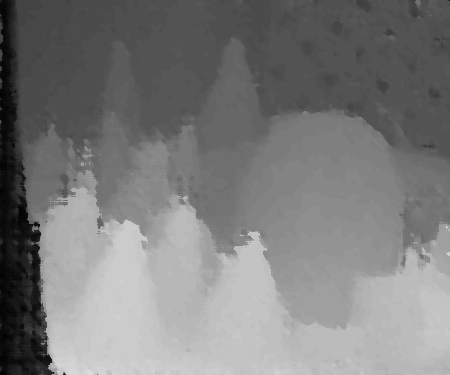
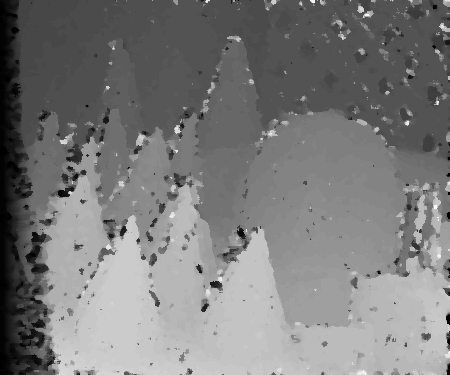
bug fix

diff --git a/model.py b/model.py
@@ -5,6 +5,10 @@ import time
 from multiprocessing import Pool
 from share_array import *
 
+import torch
+import torch.nn.functional as F
+from  utils import filter2D, get_gaussian_kernel, get_time
+
 class Param:
     def __init__(self):
         self.cost_mode = "sad"
@@ -64,21 +68,25 @@ class Paths:
         self.size = len(self.paths)
 
 class Model:
-    def __init__(self, param, data_config):
+    def __init__(self, param, data_config, device):
         self.param = param
         self.data_config = data_config
 
         left_fn = data_config['left_fn']
         right_fn = data_config['right_fn']
 
-        self.left = cv2.imread(left_fn, 0)
-        self.right = cv2.imread(right_fn, 0)
+        self.left = torch.from_numpy(cv2.imread(left_fn, 0)).float()
+        print("load left img: ", left_fn)
+        self.right = torch.from_numpy(cv2.imread(right_fn, 0)).float()
+        print("load right img: ", right_fn)
 
         self.H, self.W = self.left.shape
         H, W = self.right.shape
         assert(self.H == H and self.W == W)
 
         self.paths = Paths(param)
+
+        self.device = device
 
     def find_center(self, img, y, x):
         pool = []
@@ -92,22 +100,42 @@ class Model:
         return center
 
     def encode_img(self, img):
-        img = cv2.GaussianBlur(img, (self.param.blur_k_size, self.param.blur_k_size), 0)
+        # img = cv2.GaussianBlur(img.numpy(), (self.param.blur_k_size, self.param.blur_k_size), 0)
+        # if self.param.cost_mode == "census" and (self.param.cost_k_size > 1):
+        #     # res = torch.zeros_like(img)
+        #     res = np.zeros_like(img)
+        #     rad = self.param.cost_k_size // 2
+        #     for y in range(rad, self.H - rad):
+        #         for x in range(rad, self.W - rad):
+        #             # center = img[y, x]
+        #             center = self.find_center(img, y, x)
+        #             val = 0
+        #             for yy in range(-rad, rad+1):
+        #                 for xx in range(-rad, rad+1):
+        #                     if (img[y+yy, x+xx] < center):
+        #                         val += 1
+        #                     val = (val << 1)
+        #             res[y, x] = val
+        #     img = res
+        # else:
+        #     assert(self.param.cost_mode == "sad")
+
+        kernel = get_gaussian_kernel(self.param.blur_k_size, channels=1).to(self.device)
+        img = img.to(self.device)
+        img = filter2D(img, kernel)
 
         if self.param.cost_mode == "census" and (self.param.cost_k_size > 1):
-            res = np.zeros_like(img)
+            res = torch.zeros_like(img).to(torch.int64)
+
             rad = self.param.cost_k_size // 2
-            for y in range(rad, self.H - rad):
-                for x in range(rad, self.W - rad):
-                    # center = img[y, x]
-                    center = self.find_center(img, y, x)
-                    val = 0
-                    for yy in range(-rad, rad+1):
-                        for xx in range(-rad, rad+1):
-                            if (img[y+yy, x+xx] < center):
-                                val += 1
-                            val <= 1 
-                    res[y, x] = val
+            h, w = res.shape
+            offsets = [(u, v) for u in range(self.param.cost_k_size) for v in range(self.param.cost_k_size) if not u==v==rad]
+
+            img_pad = F.pad(img, pad = (rad, rad, rad, rad), mode="constant", value=0)
+
+            for u, v in offsets:
+                res = (res << 1) | (img_pad[u:u+h, v:v+w] < img)
+            
             img = res
         else:
             assert(self.param.cost_mode == "sad")
@@ -115,24 +143,26 @@ class Model:
         return img
 
     def compute_cost(self, left, right):
+        # left = torch.from_numpy(left)
+        # right = torch.from_numpy(right)
+
         disp_range = self.param.max_disparity - self.param.min_disparity
-        costs = np.zeros([self.H, self.W, disp_range])
+        costs = torch.zeros([self.H, self.W, disp_range])
         rad =  self.param.cost_k_size // 2
 
         for d in range(disp_range):
-            right_cur = right.copy()
+            right_cur = right.clone()
             right_cur[:, (rad+d):(self.W-rad)] = right[:, rad:(self.W-rad-d)]
 
             if self.param.cost_mode == "census":
-                costs[..., d] = np.bitwise_xor(np.int64(left), np.int64(right_cur))
+                costs[..., d] = torch.bitwise_xor(left.to(torch.int64), right_cur.to(torch.int64))
             else:
-                abs_data = np.fabs(left - right_cur).astype(np.uint8)
-                weights = np.ones_like([self.param.cost_k_size, self.param.cost_k_size])
-                cost = cv2.filter2D(abs_data, -1, weights)
+                abs_data = torch.fabs(left - right_cur).astype(torch.uint8)
+                weights = torch.ones_like([self.param.cost_k_size, self.param.cost_k_size])
+                cost = filter2D(abs_data, weights)
                 costs[..., d] = cost
 
         return costs
-
 
     def get_indices(self, offset, dim, direction, height):
         """
@@ -376,16 +406,32 @@ class Model:
         return disparity_map
 
     def process(self):
+        print("encoding left...")
+        dawn = get_time()
         left_enc = self.encode_img(self.left)
+        dust = get_time()
+        print("encoded left takes: %f\n"%(dust - dawn))
+
+        print("encoding right...")
+        dawn = get_time()
         right_enc = self.encode_img(self.right)
+        dust = get_time()
+        print("encoded right takes: %f\n"%(dust - dawn))
 
+        print("computing cost...")
+        dawn = get_time()
         cost = self.compute_cost(left_enc, right_enc)
-        cost = cost.astype(np.uint32) 
+        dust = get_time()
+        print("computed cost takes: %f\n"%(dust - dawn))
+        cost = cost.to(torch.int64)
 
-        dawn = time.time()
+        #TODO make the below on GPU
+        cost = cost.numpy()
+        print("aggregating costs...")
+        dawn = get_time()
         # cost = np.load("left_cost_volume.npy")
         aggregation_volume = self.aggregate_costs(cost)
-        dust = time.time()
+        dust = get_time()
         print("aggregation takes time: %f\n"%(dust - dawn))
 
         disparity = self.compute_disparity(aggregation_volume)

diff --git a/utils.py b/utils.py
@@ -1,0 +1,97 @@
+import torch
+import math
+import torch.nn.functional as F
+import typing as T
+from typing import Optional
+
+import math
+import time
+
+_Size2D = T.Union[int, T.Tuple[int, int]]
+
+
+def _kernel_shape(shape: _Size2D):
+    # H -> (H, H); (H, W) -> (H, W)
+    if isinstance(shape, int):
+        return (shape, shape)
+    elif isinstance(shape, tuple):
+        return shape
+
+    raise Exception("Invalid Shape")
+
+
+def get_gaussian_kernel(kernel_size=3, sigma=2, channels=3):
+    # Create a x, y coordinate grid of shape (kernel_size, kernel_size, 2)
+    x_coord = torch.arange(kernel_size)
+    x_grid = x_coord.repeat(kernel_size).view(kernel_size, kernel_size)
+    y_grid = x_grid.t()
+    xy_grid = torch.stack([x_grid, y_grid], dim=-1).float()
+
+    mean = (kernel_size - 1)/2.0
+    variance = sigma**2.0
+
+    # Calculate the 2-dimensional gaussian kernel which is
+    # the product of two gaussian distributions for two different
+    # variables (in this case called x and y)
+    gaussian_kernel = (1.0/(2.0*math.pi*variance)) *\
+                    torch.exp(
+                        -torch.sum((xy_grid - mean)**2.0, dim=-1) /\
+                        (2.0*variance)
+                    )
+
+    # Make sure sum of values in gaussian kernel equals 1.
+    gaussian_kernel = gaussian_kernel / torch.sum(gaussian_kernel)
+
+    # Reshape to 2d depthwise convolutional weight
+    gaussian_kernel = gaussian_kernel.view(1, 1, kernel_size, kernel_size)
+    gaussian_kernel = gaussian_kernel.repeat(channels, 1, 1, 1)
+
+    return gaussian_kernel
+
+
+def filter2D(inp: torch.Tensor, kernel: torch.Tensor, padding: Optional[_Size2D] = None, stride: Optional[_Size2D] = None) -> torch.Tensor:
+    """Apply filter on input, just like cv2.filter2D
+
+    Args:
+        inp: (H, W) or (C, H, W) or (N, C, H, W)
+        kernel: (kH, kW)
+        padding: (pH, pW) or None; default value is (kH//2, kW//2)
+    """
+
+    if padding is None:
+        *_, kh, kw = kernel.shape
+        padding = (kh//2, kw//2)
+
+    ph, pw = _kernel_shape(padding)
+    if kernel.dim() == 2:
+        kh, kw = kernel.size()
+        kernel = kernel.view(1, 1, kh, kw)
+    
+    if stride is None:
+        stride = (1, 1)
+
+    if inp.dim() == 2:
+        x = inp.view(1, 1, *inp.size())
+    elif inp.dim() == 3:
+        C, H, W = inp.size()
+        x = inp.view(C, 1, H, W)
+    elif inp.dim() == 4:
+        N, C, H, W = inp.size()
+        x = inp.view(N*C, 1, H, W)
+
+    x = F.conv2d(x, kernel.to(x.dtype), bias=None, stride=stride, padding=[ph, pw])
+
+    if inp.dim() == 2:
+        return x[0, 0]
+    elif inp.dim() == 3:
+        C, H, W = inp.size()
+        return x.view(C, H, W)
+    elif inp.dim() == 4:
+        N, C, H, W = inp.size()
+        return x.view(N, C, H, W)
+
+
+def get_time():
+    if torch.cuda.is_available():
+        torch.cuda.synchronize()
+    return time.time()

diff --git a/main.py b/main.py
@@ -3,6 +3,7 @@ import json
 
 from firmware import Firmware
 from model import Model
+import torch
 
 if __name__ == "__main__":
     parser = argparse.ArgumentParser()
@@ -12,12 +13,16 @@ if __name__ == "__main__":
 
     json_file = args.config_fn
 
+    device = torch.device("cuda" if torch.cuda.is_available() else "cpu")
+    print("device: ", device)
+
     with open(json_file, "r") as fn:
         json_data = json.load(fn)
+        print("load json fn: ", json_file)
 
         firware_ins = Firmware(json_data['model']) 
 
         param = firware_ins.render()
 
-        model_ins = Model(param, json_data['data']) 
+        model_ins = Model(param, json_data['data'], device=device) 
         model_ins.process()
